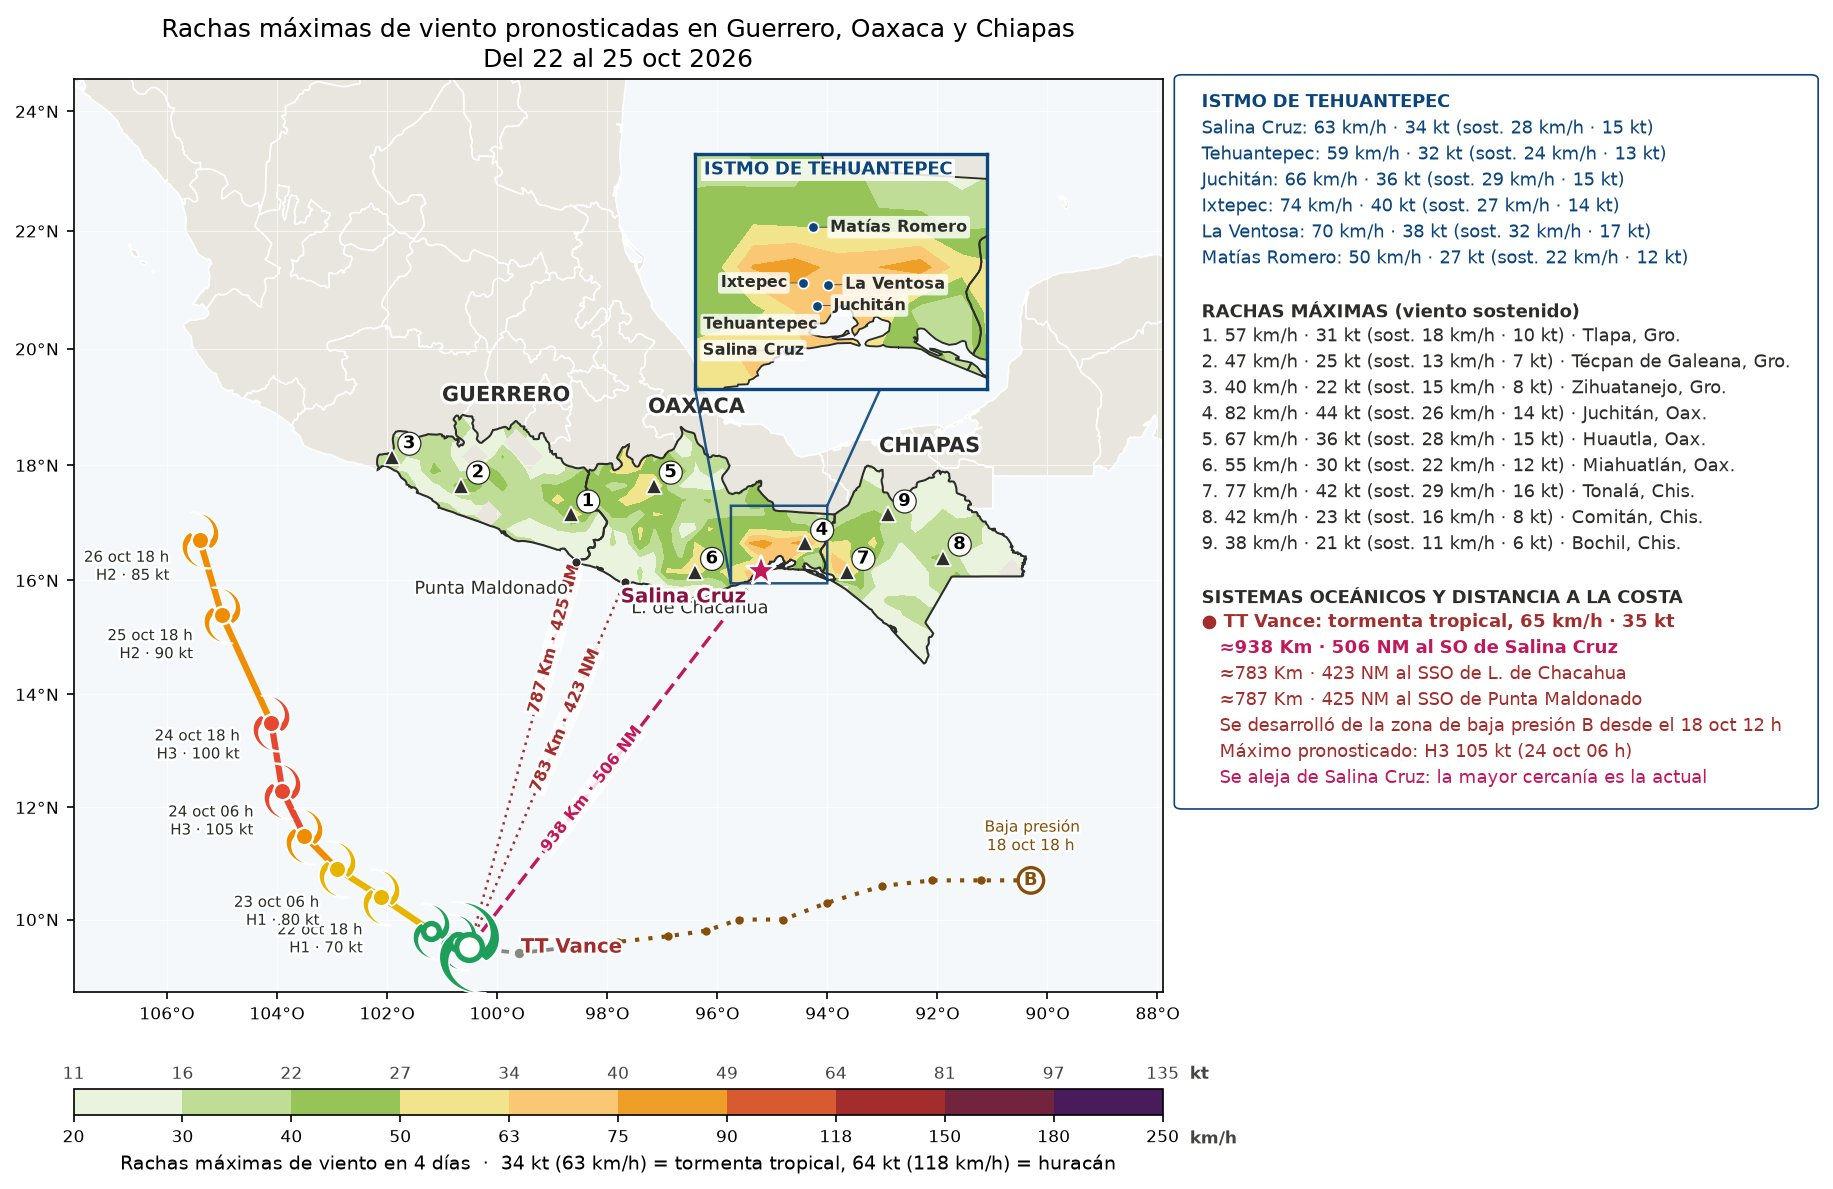
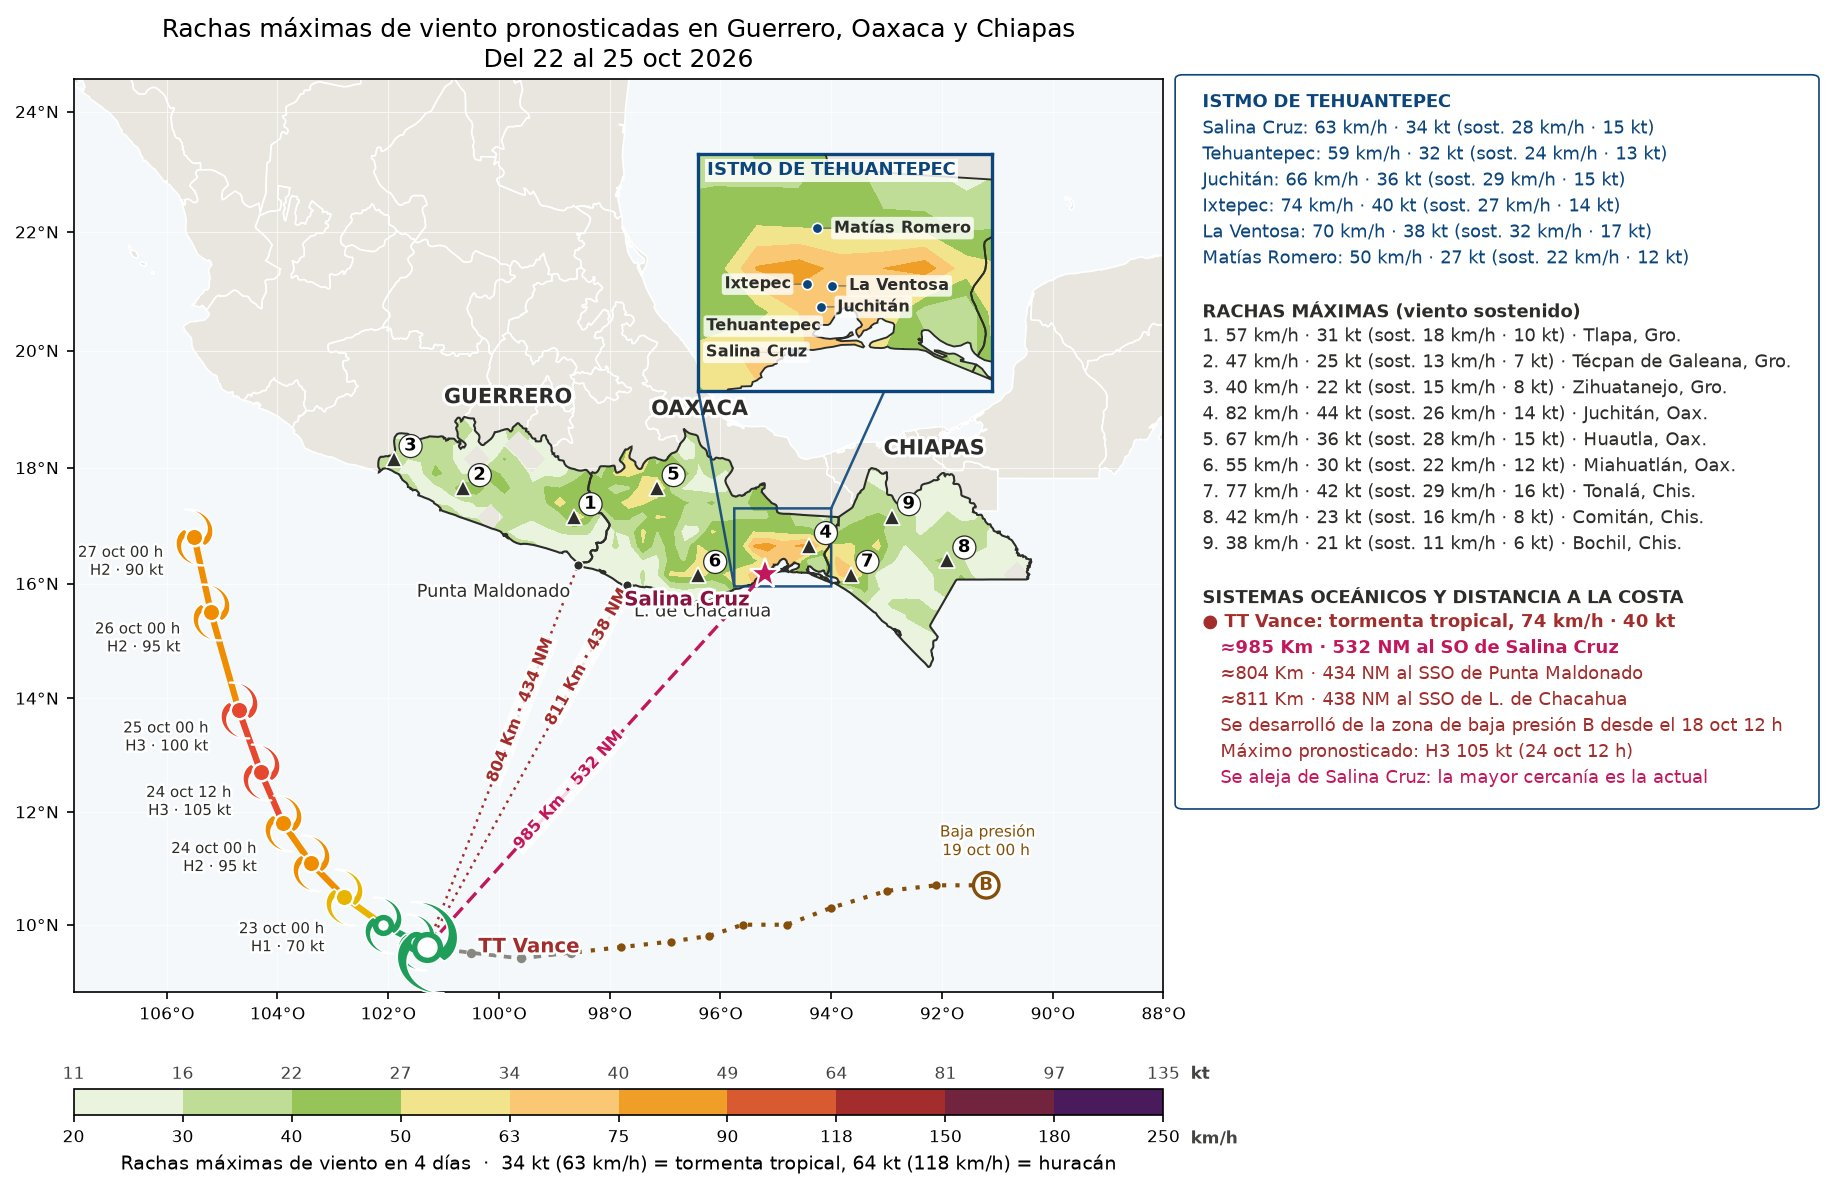
Monitor 22/10 03:17 (mapas nuevos)

diff --git a/index.html b/index.html
@@ -62,7 +62,7 @@ pre{overflow-x:auto;font-size:.75rem;background:var(--bg);padding:10px;border-ra
 <section class="t" id="sec_log"><details><summary>Registro (últimas líneas)</summary><pre id="log"></pre></details></section>
 </main>
 <div id="zoom"><img alt=""></div>
-<script id="datos" type="application/json">{"generado": "2026-10-22T02:47:04.284433", "ultima_revision": "2026-10-22T02:47:04.230386", "decision": "sin cambios", "ultima_imagen": "2026-10-22T00:07:16.005030", "motivo_imagen": "cambios acumulados en 3 h: nhc", "pendientes": [], "intervalo_h": 3, "resumen": {"ciclones": {"ep222026": {"nombre": "Vance", "kt": 40, "cat": "TT"}}, "zonas": []}, "historial": [{"fecha": "2026-10-20T18:27:13.446339", "motivo": "manual (--forzar)"}, {"fecha": "2026-10-20T18:41:26.135377", "motivo": "manual (--forzar)"}, {"fecha": "2026-10-20T18:51:11.782376", "motivo": "manual (--forzar)"}, {"fecha": "2026-10-20T22:00:47.413328", "motivo": "cambios acumulados en 3 h: modelo"}, {"fecha": "2026-10-21T01:07:16.707616", "motivo": "cambios acumulados en 3 h: zonas"}, {"fecha": "2026-10-21T04:20:30.390932", "motivo": "cambios acumulados en 3 h: modelo"}, {"fecha": "2026-10-21T07:27:16.278888", "motivo": "cambios acumulados en 3 h: zonas"}, {"fecha": "2026-10-21T08:50:23.611108", "motivo": "CAMBIO SIGNIFICATIVO: Twenty-Two-E entró a la jurisdicción (DT)"}, {"fecha": "2026-10-21T10:39:57.224515", "motivo": "manual (--forzar)"}, {"fecha": "2026-10-21T11:09:36.695799", "motivo": "manual (--forzar)"}, {"fecha": "2026-10-21T12:47:14.163333", "motivo": "CAMBIO SIGNIFICATIVO: una zona de baja presión dejó de afectar la jurisdicción"}, {"fecha": "2026-10-21T14:37:14.543348", "motivo": "CAMBIO SIGNIFICATIVO: Vance cambió de categoría DT → TT"}, {"fecha": "2026-10-21T17:50:14.361831", "motivo": "cambios acumulados en 3 h: modelo"}, {"fecha": "2026-10-21T21:00:41.013700", "motivo": "cambios acumulados en 3 h: modelo"}, {"fecha": "2026-10-22T00:07:16.005030", "motivo": "cambios acumulados en 3 h: nhc"}], "imagenes": {"lluvia": {"src": "lluvia.jpg?v=202610220007", "fecha": "2026-10-22T00:07:09.519594"}, "viento": {"src": "viento.jpg?v=202610220007", "fecha": "2026-10-22T00:07:14.226390"}}, "log": [], "umbral_av": 50, "umbral_mal": 110}</script>
+<script id="datos" type="application/json">{"generado": "2026-10-22T03:17:15.504688", "ultima_revision": "2026-10-22T03:17:15.474786", "decision": "imágenes generadas", "ultima_imagen": "2026-10-22T03:17:15.474786", "motivo_imagen": "cambios acumulados en 3 h: nhc", "pendientes": [], "intervalo_h": 3, "resumen": {"ciclones": {"ep222026": {"nombre": "Vance", "kt": 45, "cat": "TT"}}, "zonas": []}, "historial": [{"fecha": "2026-10-20T18:41:26.135377", "motivo": "manual (--forzar)"}, {"fecha": "2026-10-20T18:51:11.782376", "motivo": "manual (--forzar)"}, {"fecha": "2026-10-20T22:00:47.413328", "motivo": "cambios acumulados en 3 h: modelo"}, {"fecha": "2026-10-21T01:07:16.707616", "motivo": "cambios acumulados en 3 h: zonas"}, {"fecha": "2026-10-21T04:20:30.390932", "motivo": "cambios acumulados en 3 h: modelo"}, {"fecha": "2026-10-21T07:27:16.278888", "motivo": "cambios acumulados en 3 h: zonas"}, {"fecha": "2026-10-21T08:50:23.611108", "motivo": "CAMBIO SIGNIFICATIVO: Twenty-Two-E entró a la jurisdicción (DT)"}, {"fecha": "2026-10-21T10:39:57.224515", "motivo": "manual (--forzar)"}, {"fecha": "2026-10-21T11:09:36.695799", "motivo": "manual (--forzar)"}, {"fecha": "2026-10-21T12:47:14.163333", "motivo": "CAMBIO SIGNIFICATIVO: una zona de baja presión dejó de afectar la jurisdicción"}, {"fecha": "2026-10-21T14:37:14.543348", "motivo": "CAMBIO SIGNIFICATIVO: Vance cambió de categoría DT → TT"}, {"fecha": "2026-10-21T17:50:14.361831", "motivo": "cambios acumulados en 3 h: modelo"}, {"fecha": "2026-10-21T21:00:41.013700", "motivo": "cambios acumulados en 3 h: modelo"}, {"fecha": "2026-10-22T00:07:16.005030", "motivo": "cambios acumulados en 3 h: nhc"}, {"fecha": "2026-10-22T03:17:15.474786", "motivo": "cambios acumulados en 3 h: nhc"}], "imagenes": {"lluvia": {"src": "lluvia.jpg?v=202610220317", "fecha": "2026-10-22T03:17:08.841823"}, "viento": {"src": "viento.jpg?v=202610220317", "fecha": "2026-10-22T03:17:13.723020"}}, "log": [], "umbral_av": 50, "umbral_mal": 110}</script>
 <script>
 const D = JSON.parse(document.getElementById("datos").textContent);
 const $ = id => document.getElementById(id);
